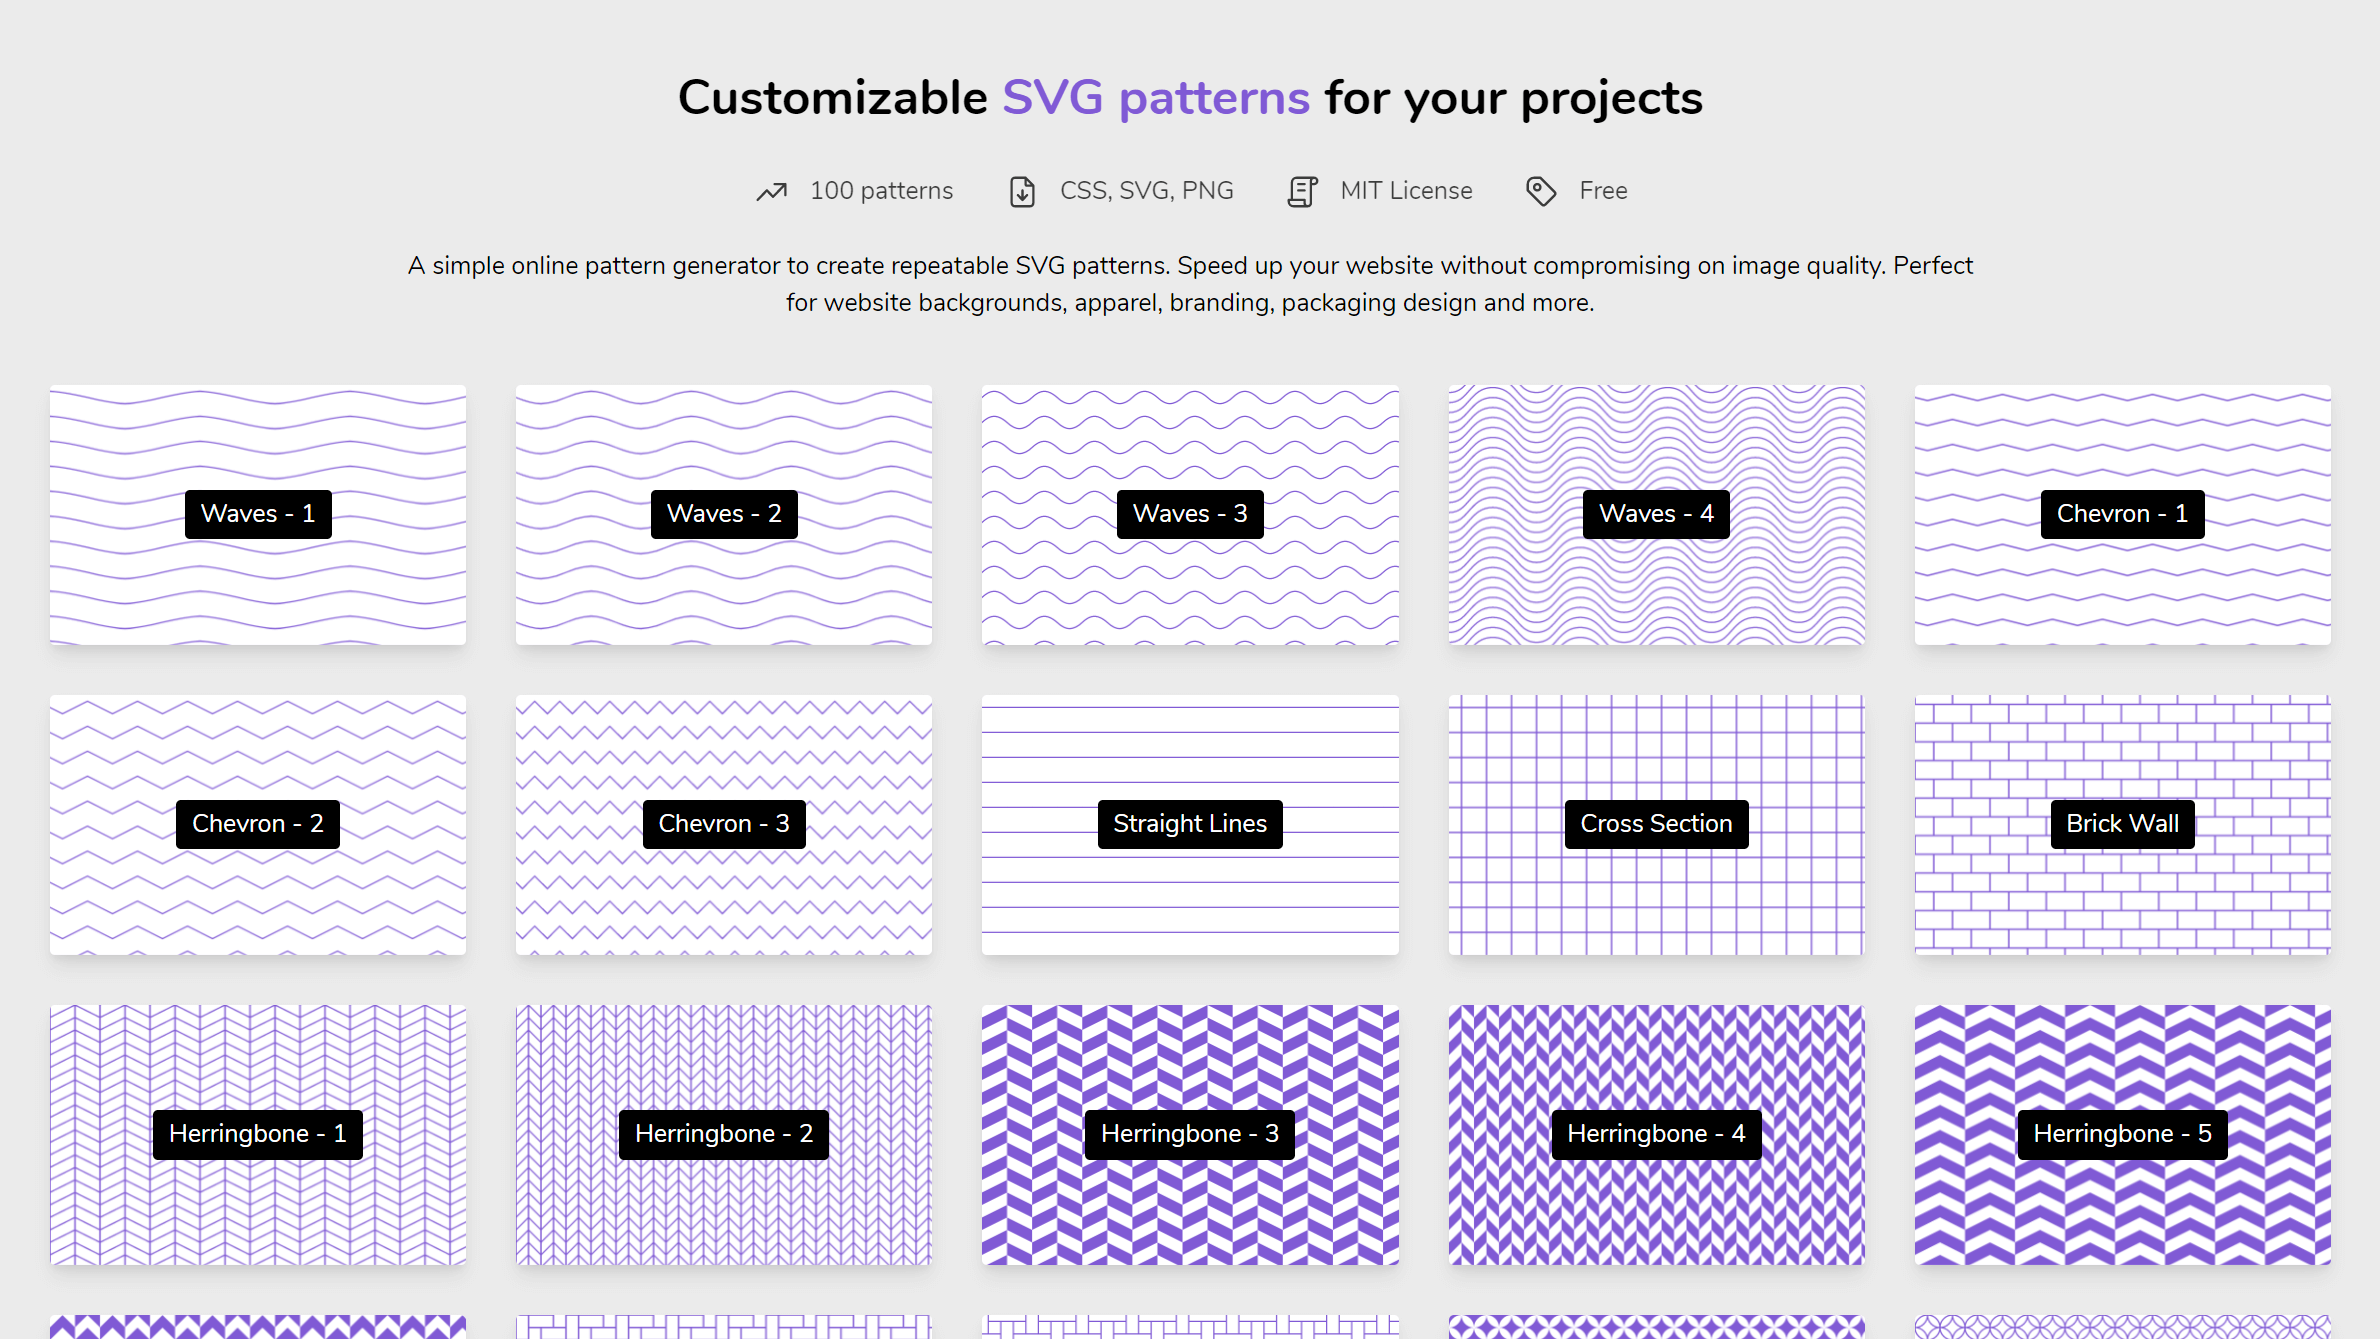
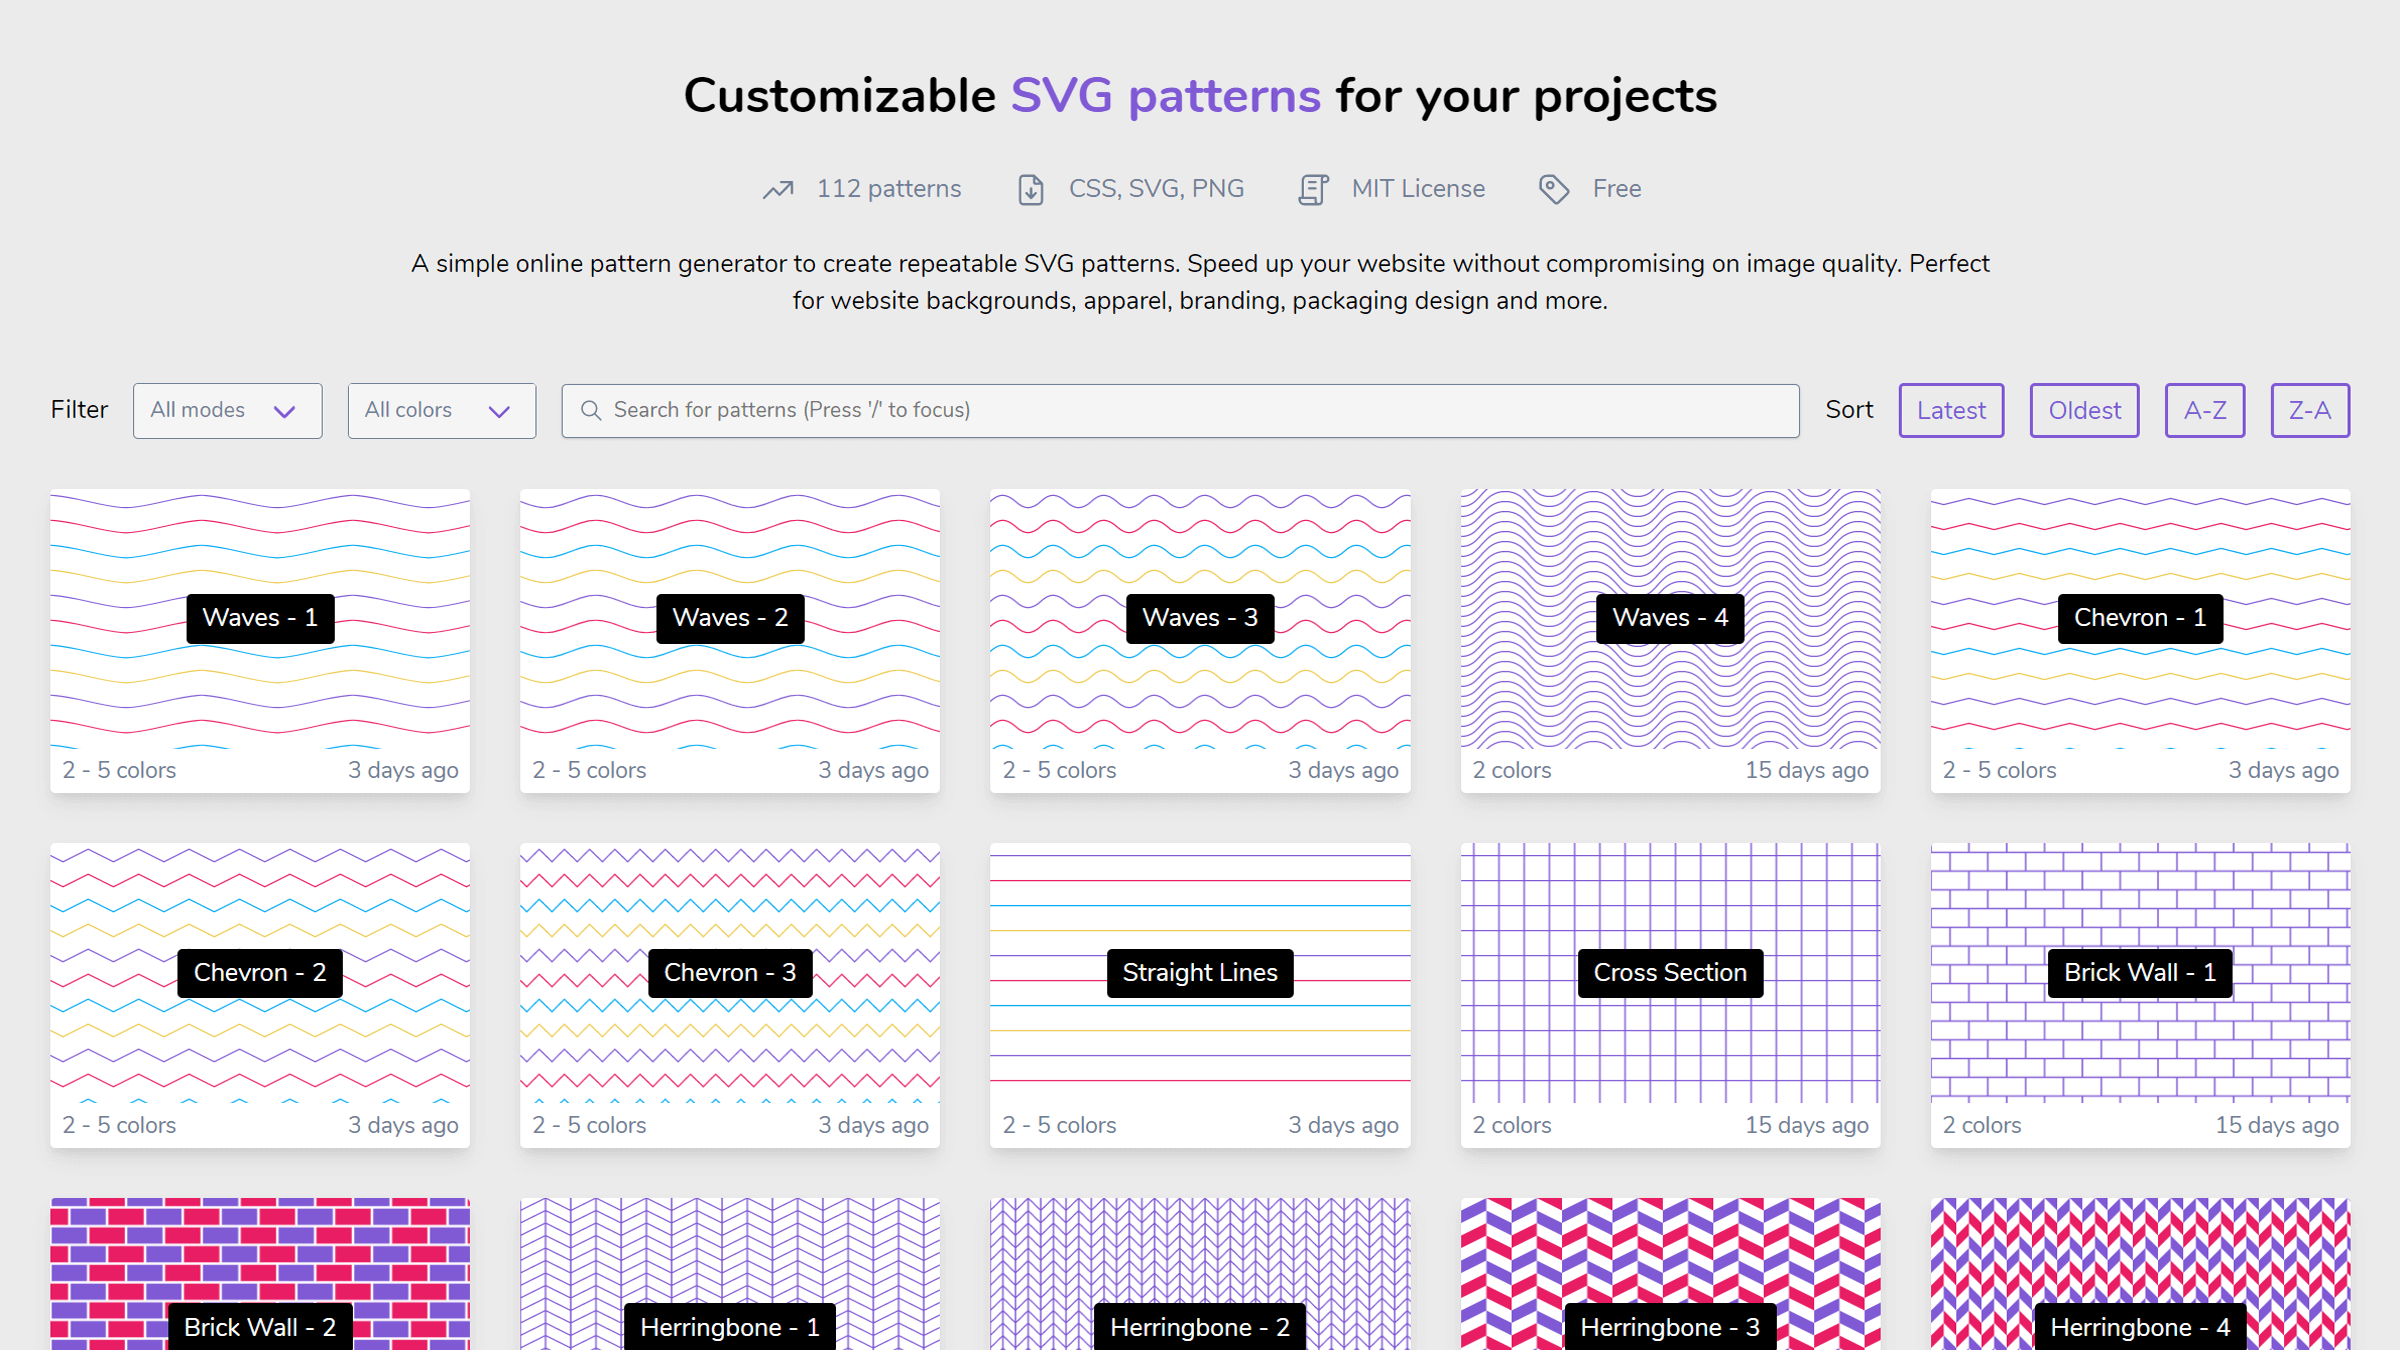
Updated image for github and expanded the width of search in desktop

diff --git a/src/routes/index.svelte b/src/routes/index.svelte
@@ -286,6 +286,7 @@
     display: grid;
     /* width: 100%; */
     grid-auto-flow: column;
+    grid-template-columns: auto 1fr auto;
     /* justify-items: center; */
     /* place-content: start; */
     place-items: center;
@@ -351,7 +352,7 @@
   }
 
   .searchBox {
-    padding: 0.5rem 0.75rem;
+    padding: 0.625rem 0.75rem;
     border: 0.0625em solid var(--gray-text);
     background-color: var(--card-bg);
     color: var(--gray-text);
@@ -396,6 +397,7 @@
   @media (max-width: 1080px) {
     .outerGrid {
       grid-auto-flow: row;
+      grid-template-columns: auto;
     }
     .sortGrid {
       justify-self: start;

diff --git a/README.md b/README.md
@@ -12,7 +12,7 @@
 
 Create seamless patterns in SVG to use as website backgrounds, header images, stationery design and package design
 
-100 patterns available
+112 patterns available
 
 ## Features:
 
